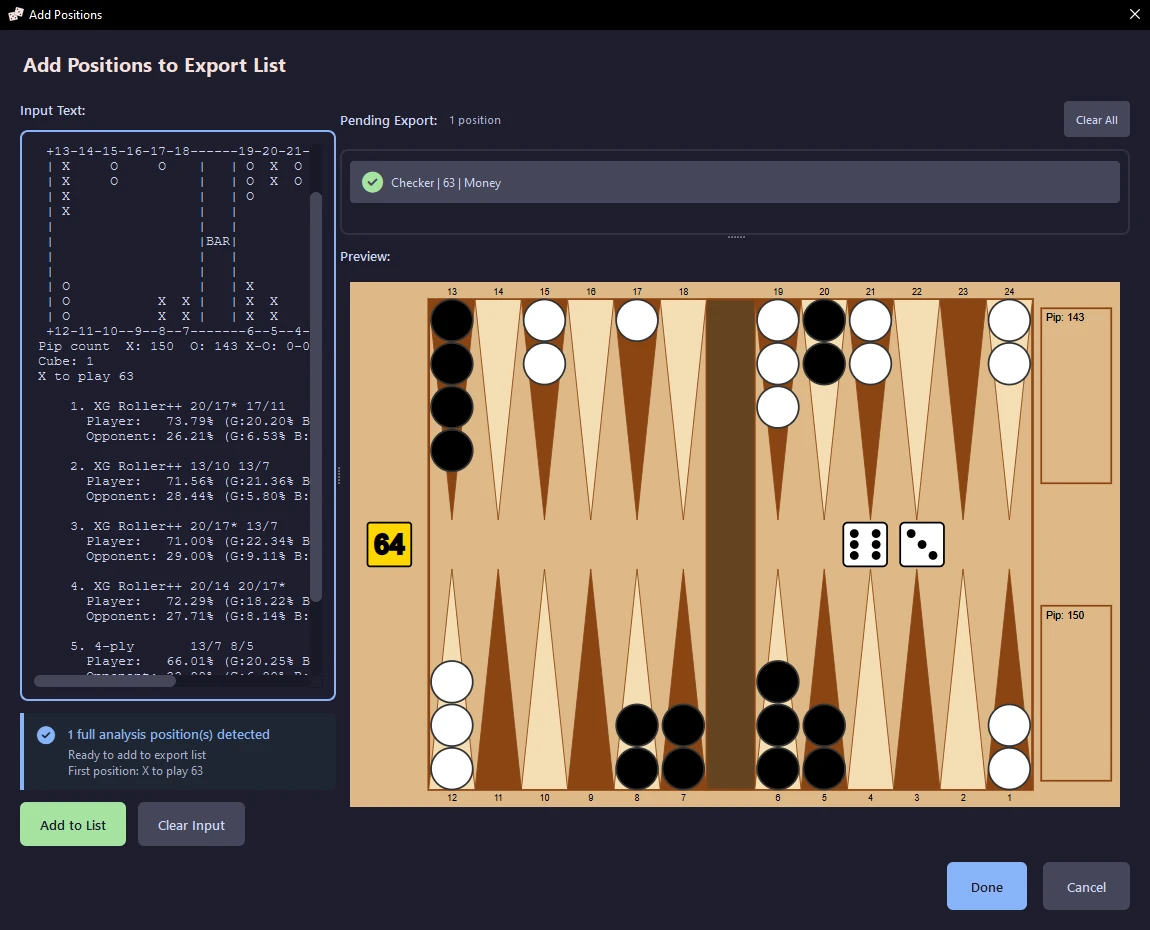
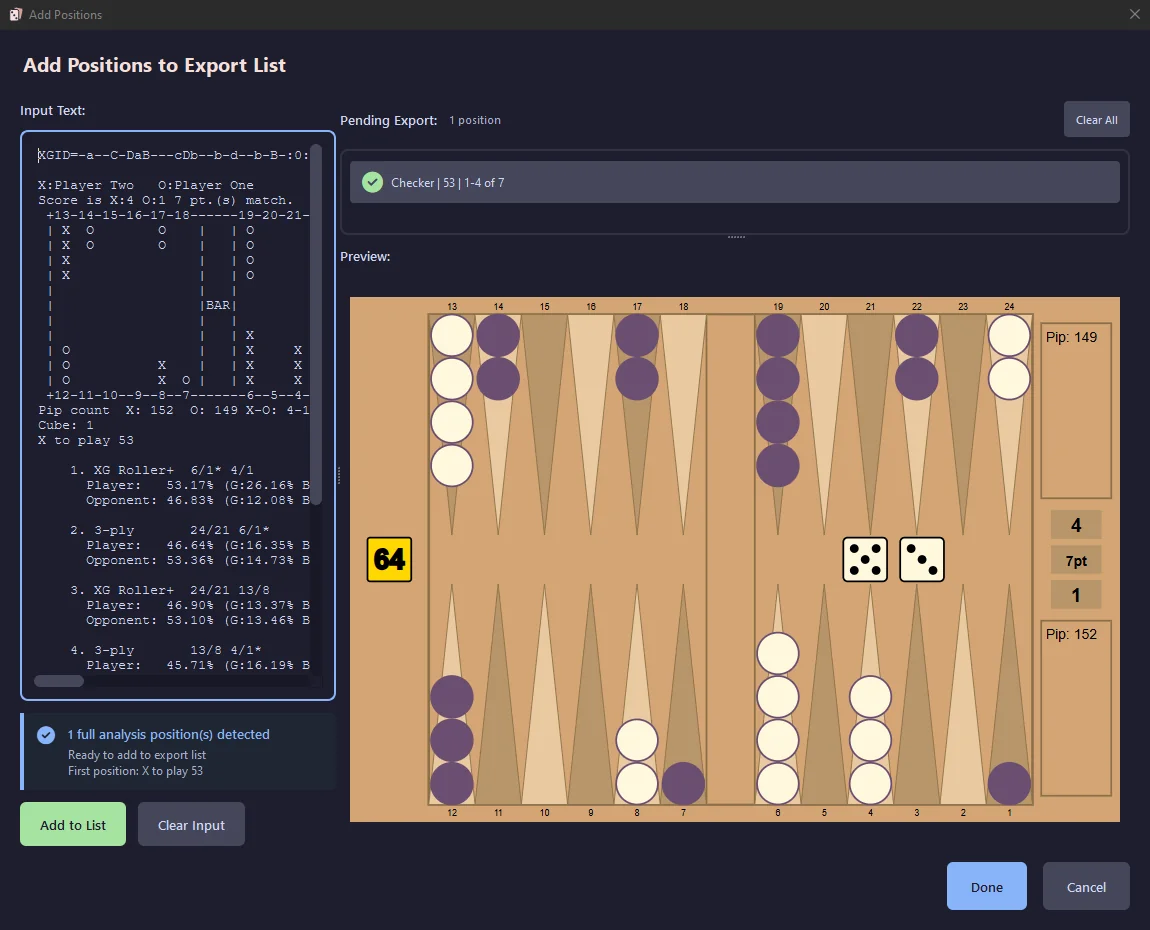
Retake the See It In Action screenshots from 1.14.0
The carousel still showed the app from before the deck tree, the new
logo and the two-column card back. All nine images are regenerated from
the current app and Anki by scripts/take_website_screenshots.py in the
app repo; the Anki shots are cropped to the card itself. Captions, alt
text and image sizes follow what each slide now shows, and the old
"Anki Note" slide becomes Interactive Moves, which it always depicted.

diff --git a/website/public/index.html b/website/public/index.html
@@ -448,40 +448,40 @@
                 <div class="embla__viewport">
                     <div class="embla__container">
                         <div class="embla__slide">
-                            <img src="assets/images/main-window.webp" alt="AnkiGammon main window with imported positions" width="1302" height="752" loading="lazy">
-                            <p class="slide-caption">Main Window - Your positions with board previews and drag-and-drop</p>
+                            <img src="assets/images/main-window.webp" alt="AnkiGammon main window with a deck tree of imported positions and a board preview" width="1300" height="750" loading="lazy">
+                            <p class="slide-caption">Main Window - Your positions in decks and subdecks, with a live board preview</p>
                         </div>
                         <div class="embla__slide">
-                            <img src="assets/images/add-positions.webp" alt="Add positions dialog with smart format detection" width="1152" height="932" loading="lazy">
+                            <img src="assets/images/add-positions.webp" alt="Add positions dialog detecting pasted XG analysis text" width="1150" height="930" loading="lazy">
                             <p class="slide-caption">Add Positions - Paste XGID, OGID, GNUID, or full XG analysis text</p>
                         </div>
                         <div class="embla__slide">
-                            <img src="assets/images/drag-and-drop.webp" alt="Drag and drop XG/XGP files into AnkiGammon" width="1302" height="752" loading="lazy">
-                            <p class="slide-caption">Drag & Drop - Import .xg/.xgp files with automatic blunder filtering</p>
+                            <img src="assets/images/drag-and-drop.webp" alt="Dropping a match file onto the AnkiGammon window" width="1300" height="750" loading="lazy">
+                            <p class="slide-caption">Drag &amp; Drop - Import .xg, .xgp, .mat and .sgf files, keeping only the mistakes</p>
                         </div>
                         <div class="embla__slide">
-                            <img src="assets/images/edit-note.webp" alt="Edit position and add custom notes" width="1302" height="752" loading="lazy">
+                            <img src="assets/images/edit-note.webp" alt="Editing the note on a position" width="1300" height="750" loading="lazy">
                             <p class="slide-caption">Edit Notes - Add your own explanations and insights to each position</p>
                         </div>
                         <div class="embla__slide">
-                            <img src="assets/images/settings.webp" alt="Settings dialog with color schemes and customization" width="502" height="659" loading="lazy">
-                            <p class="slide-caption">Settings - 7 color schemes, board orientation, GnuBG analysis, and more</p>
+                            <img src="assets/images/settings.webp" alt="Settings dialog with export, analysis engine, board and study options" width="795" height="722" loading="lazy">
+                            <p class="slide-caption">Settings - Analysis engine, score matrices, board themes and study options</p>
                         </div>
                         <div class="embla__slide">
-                            <img src="assets/images/anki-front.webp" alt="Anki flashcard front with backgammon position and multiple choice" width="947" height="1133" loading="lazy">
+                            <img src="assets/images/anki-front.webp" alt="Anki flashcard front with a backgammon position and multiple-choice moves" width="848" height="847" loading="lazy">
                             <p class="slide-caption">Card Front - Multiple-choice questions with clean board graphics</p>
                         </div>
                         <div class="embla__slide">
-                            <img src="assets/images/anki-back.webp" alt="Anki flashcard back with move analysis" width="947" height="1133" loading="lazy">
-                            <p class="slide-caption">Card Back - Detailed analysis with equities and interactive move visualization</p>
+                            <img src="assets/images/anki-back.webp" alt="Anki flashcard back showing a wrong answer, the move analysis and a note" width="1408" height="1013" loading="lazy">
+                            <p class="slide-caption">Card Back - See what you missed, with equities, the played move and your notes</p>
                         </div>
                         <div class="embla__slide">
-                            <img src="assets/images/anki-note.webp" alt="Position note in Anki before studying" width="1302" height="752" loading="lazy">
-                            <p class="slide-caption">Anki Note - Your positions appear in Anki ready to study</p>
+                            <img src="assets/images/anki-note.webp" alt="Clicking a move in the analysis animates it on the board" width="1408" height="1013" loading="lazy">
+                            <p class="slide-caption">Interactive Moves - Click any move in the analysis to see it played on the board</p>
                         </div>
                         <div class="embla__slide">
-                            <img src="assets/images/score-matrix.webp" alt="Score matrix for cube decisions" width="1302" height="752" loading="lazy">
-                            <p class="slide-caption">Score Matrix - Advanced cube analysis for tournament play (optional)</p>
+                            <img src="assets/images/score-matrix.webp" alt="Score matrix of cube actions across match scores" width="1408" height="1130" loading="lazy">
+                            <p class="slide-caption">Score Matrix - The right cube action at every match score (optional)</p>
                         </div>
                     </div>
                 </div>
